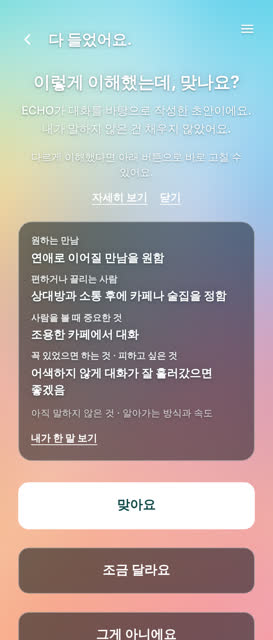
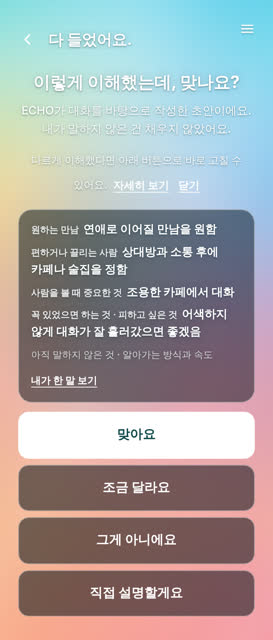
parity: 정정·확인 화면이 360·390·430px 모두 한 화면 안(칸 이름을 뜻 앞 같은 줄로 · 버튼 바깥 여백 0)
Claude-Session: https://claude.ai/code/session_01LrNq9P5Z9SNALpofurNauX

diff --git a/product/src/doit/components/feature/visual-parity.css b/product/src/doit/components/feature/visual-parity.css
@@ -102,3 +102,12 @@
   animation:echo-light-flow 16s ease-in-out infinite alternate}
 @keyframes echo-light-flow{from{background-position:0% 0%,0% 0%,0 0,0 0}to{background-position:100% 100%,100% 100%,0 0,0 0}}
 @media(prefers-reduced-motion:reduce){:root:root :is(.echo-dialogue.echo-dialogue--pastel,.doit-app-pastel)::after{animation:none}}
+
+/* 정정·확인이 390×844 한 화면에 들어오게(시안 4번은 카드 한 장): 칸 이름을 뜻 앞에 같은 줄로(작은 글씨) · 첫 안내는 한 줄 + 링크 */
+:root:root .echo-dialogue.echo-chat .echo-check .echo-profile-list li{display:block!important}
+:root:root .echo-dialogue.echo-chat .echo-check .echo-profile-list li>b{display:inline;margin-right:6px}
+:root:root .echo-dialogue.echo-chat .echo-check .echo-profile-list li>.echo-profile-item{display:inline!important}
+:root:root .echo-dialogue.echo-chat .echo-check .echo-profile-list li>.echo-profile-item small{display:block}
+:root:root .echo-dialogue.echo-chat .echo-check .echo-guide-hint p{display:inline}
+:root:root .echo-dialogue.echo-chat .echo-check .echo-guide-hint-actions{display:inline-flex;gap:12px;margin-left:8px}
+:root:root .echo-dialogue.echo-chat .echo-check>.echo-done-actions>*{margin:0!important}

diff --git a/product/docs/design/PARITY_138_20261005.md b/product/docs/design/PARITY_138_20261005.md
@@ -9,7 +9,7 @@
 |---|---|---|---|---|---|---|
 | 1 시작 | `/doit/start-journey` 목적 없음 | 일치(실측 바탕 + 이 PR 빛 흐름) | 목적 타일 = 유리 | 리본·ECHO·제목 왼쪽(기준과 같음) | 일치 | 대체로 일치 |
 | 3 ECHO와 대화 | `/doit/conversation` 진행 중 | 일치 + 대각선 빛 · 가운데 청록 깊이 | 말풍선 = 먹색 유리 52~54% | 뒤로+제목 한 줄 · 내 말 옆 사람 그림 · ECHO 빛 점 · 「+ · 입력칸 · 보내기」 한 줄 | 입력칸 「편하게 적어주세요.」(기존 승인 문구) | 일치 |
-| 4 정정·확인 | `/doit/conversation` 다섯 답 뒤 | 일치 | 카드 한 장 · 바깥 판 0 | 제목(가운데) → 설명 → 카드 → 네 버튼(맞아요 흰 판) | 「이렇게 이해했는데, 맞나요?」 그대로 | 대체로 일치 — 화면 높이 934px(844 넘음, 네 번째 버튼이 아래로 90px) |
+| 4 정정·확인 | `/doit/conversation` 다섯 답 뒤 | 일치 | 카드 한 장 · 바깥 판 0 | 제목(가운데) → 설명 → 카드 → 네 버튼(맞아요 흰 판) | 「이렇게 이해했는데, 맞나요?」 그대로 | 일치 — 360·390·430px 모두 한 화면(844px) 안 |
 | 5 후보 | `/doit/connections` 후보 1 | 일치 | 유리 | **불일치**: 큰 판 안에 이유 글 여러 줄 · 기준은 사진 카드 + 두 버튼 | 「이분의 이야기를 들어볼까요?」 있음(카드 안) | 미완 — 담당 확인 중(아래) |
 | 7 한쪽 대기 | 같은 화면 · 내가 고름 | 일치 | 유리 | **불일치**: 후보 카드가 위에 그대로 · 기준은 두 사람 그림 + 한 버튼 | 「선택을 보냈어요.」 있음 | 미완 — 담당 확인 중 |
 | 8 상호 선택 | 같은 화면 · 둘 다 고름 | 일치 | 유리 | 그림·제목·버튼 순서 일치 | 「찌릿! 텔레파시가 통했어요」 그대로 | 대체로 일치 |
@@ -27,6 +27,6 @@
 
 ## 남은 차이(정직하게)
 1. 후보·한쪽 대기 화면 배치(5·7번). `ConnectionCandidates.tsx`·`connect-ref.css` 는 #131 이 처음 만든 파일이라 담당 확인을 #131 에 요청했다.
-2. 정정·확인 화면이 390×844 에서 90px 넘친다(네 번째 버튼). 이해 칸 다섯 줄이 다 차면 기준보다 길다.
+2. (해결) 정정·확인 화면 넘침 → 칸 이름을 뜻 앞 같은 줄로 · 버튼 사이 여백 정리 → 세 폭 모두 844px 안.
 3. 가입·KEY 화면은 이번 비교 캡처가 없다 → 미검증.
 4. 실기기(아이폰·갤럭시)로 아무도 안 봤다.
